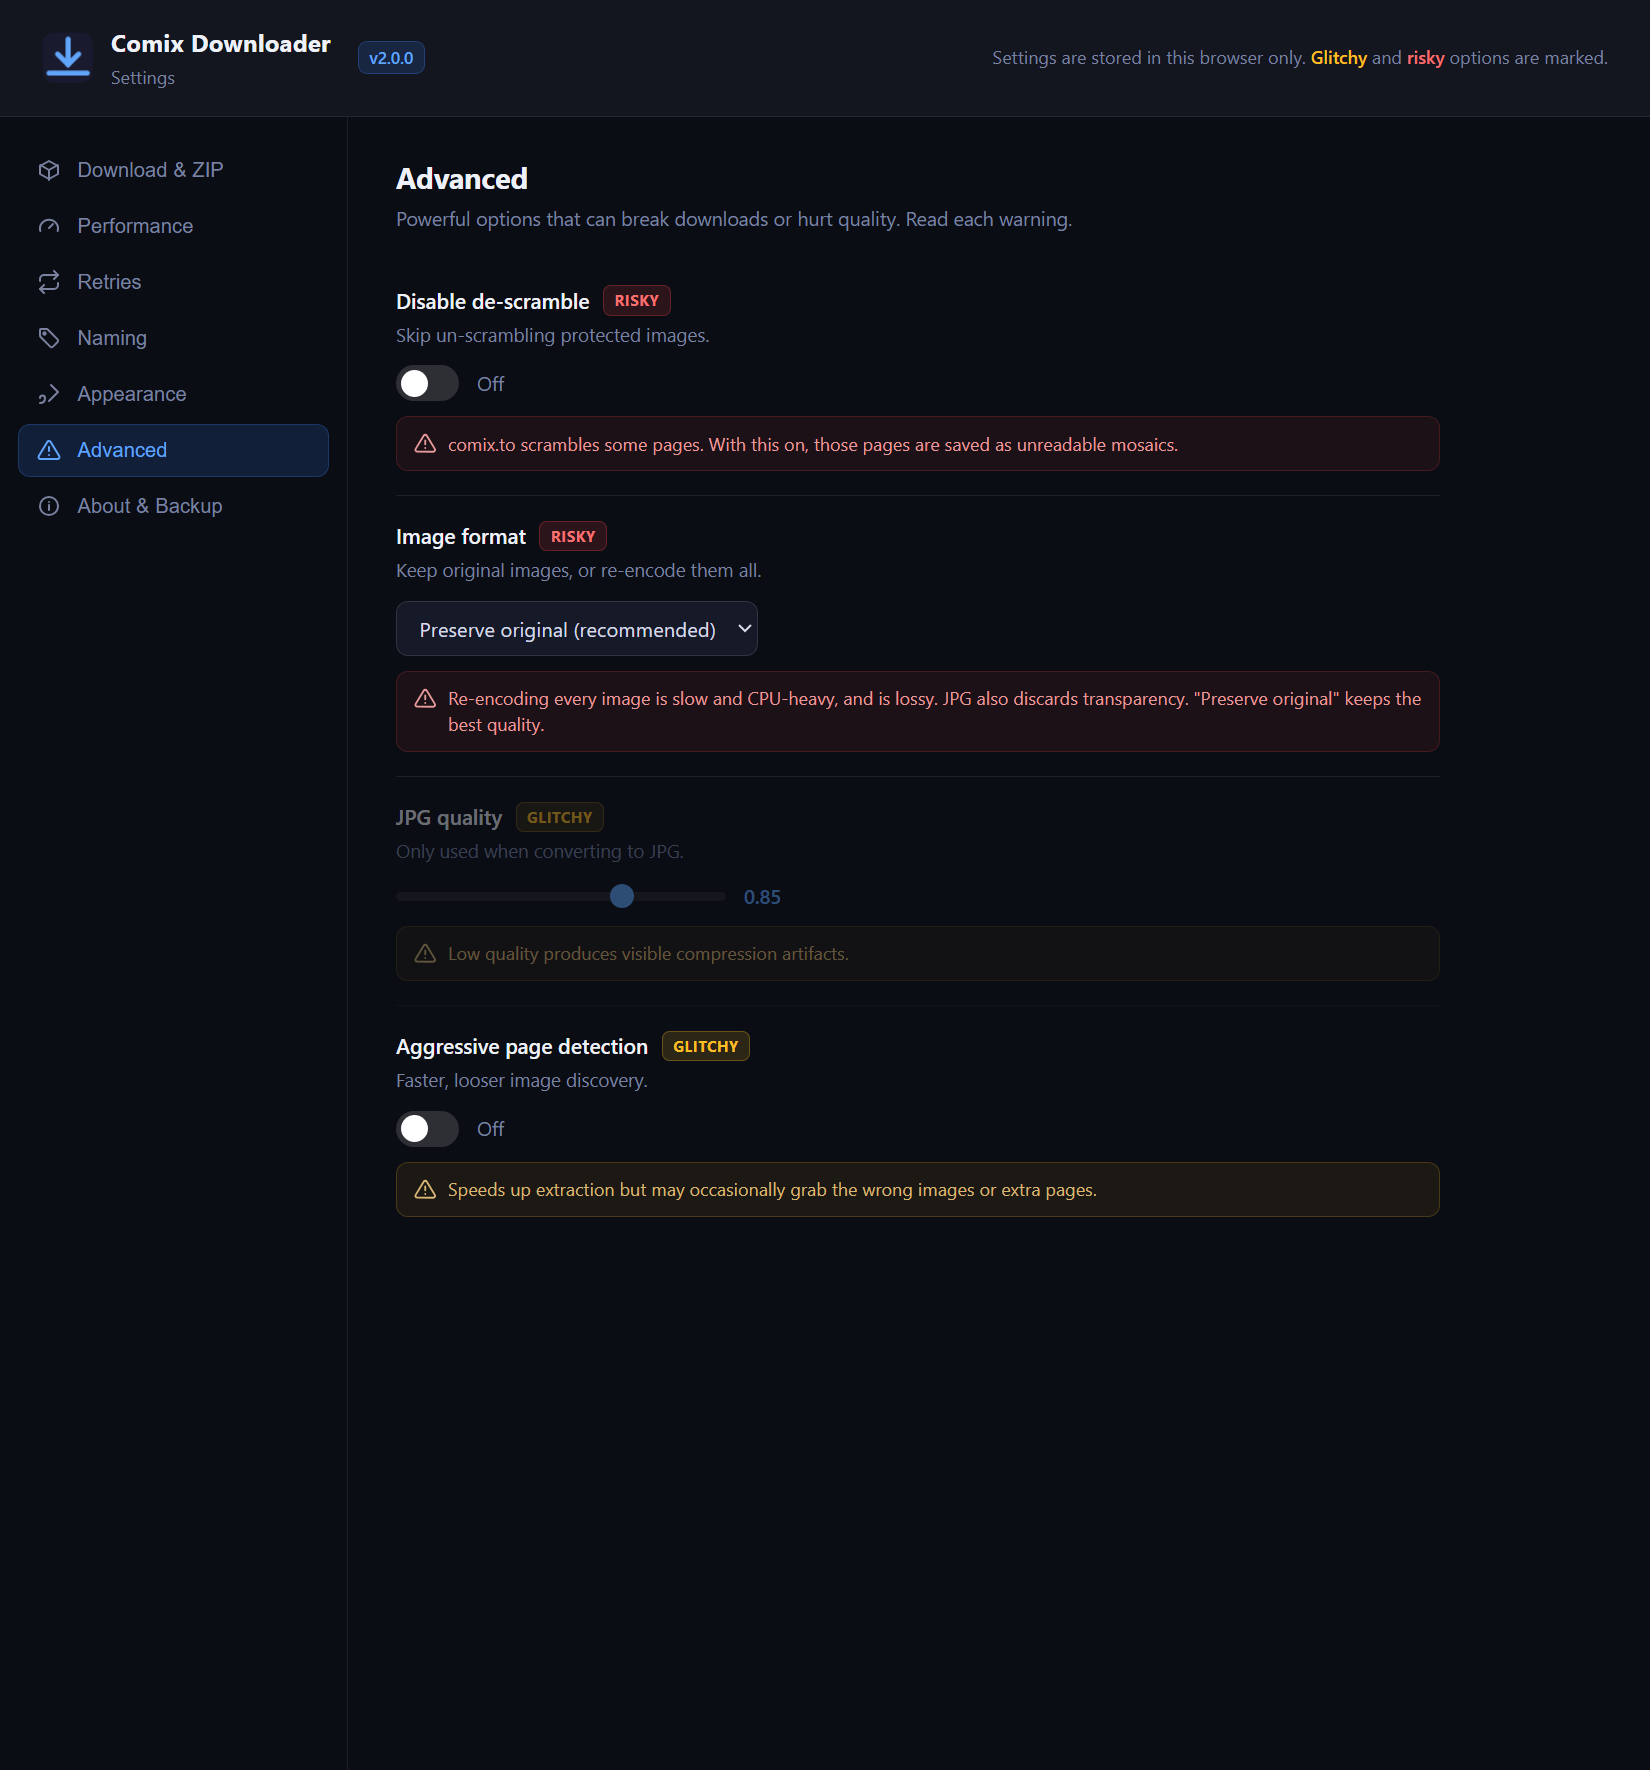
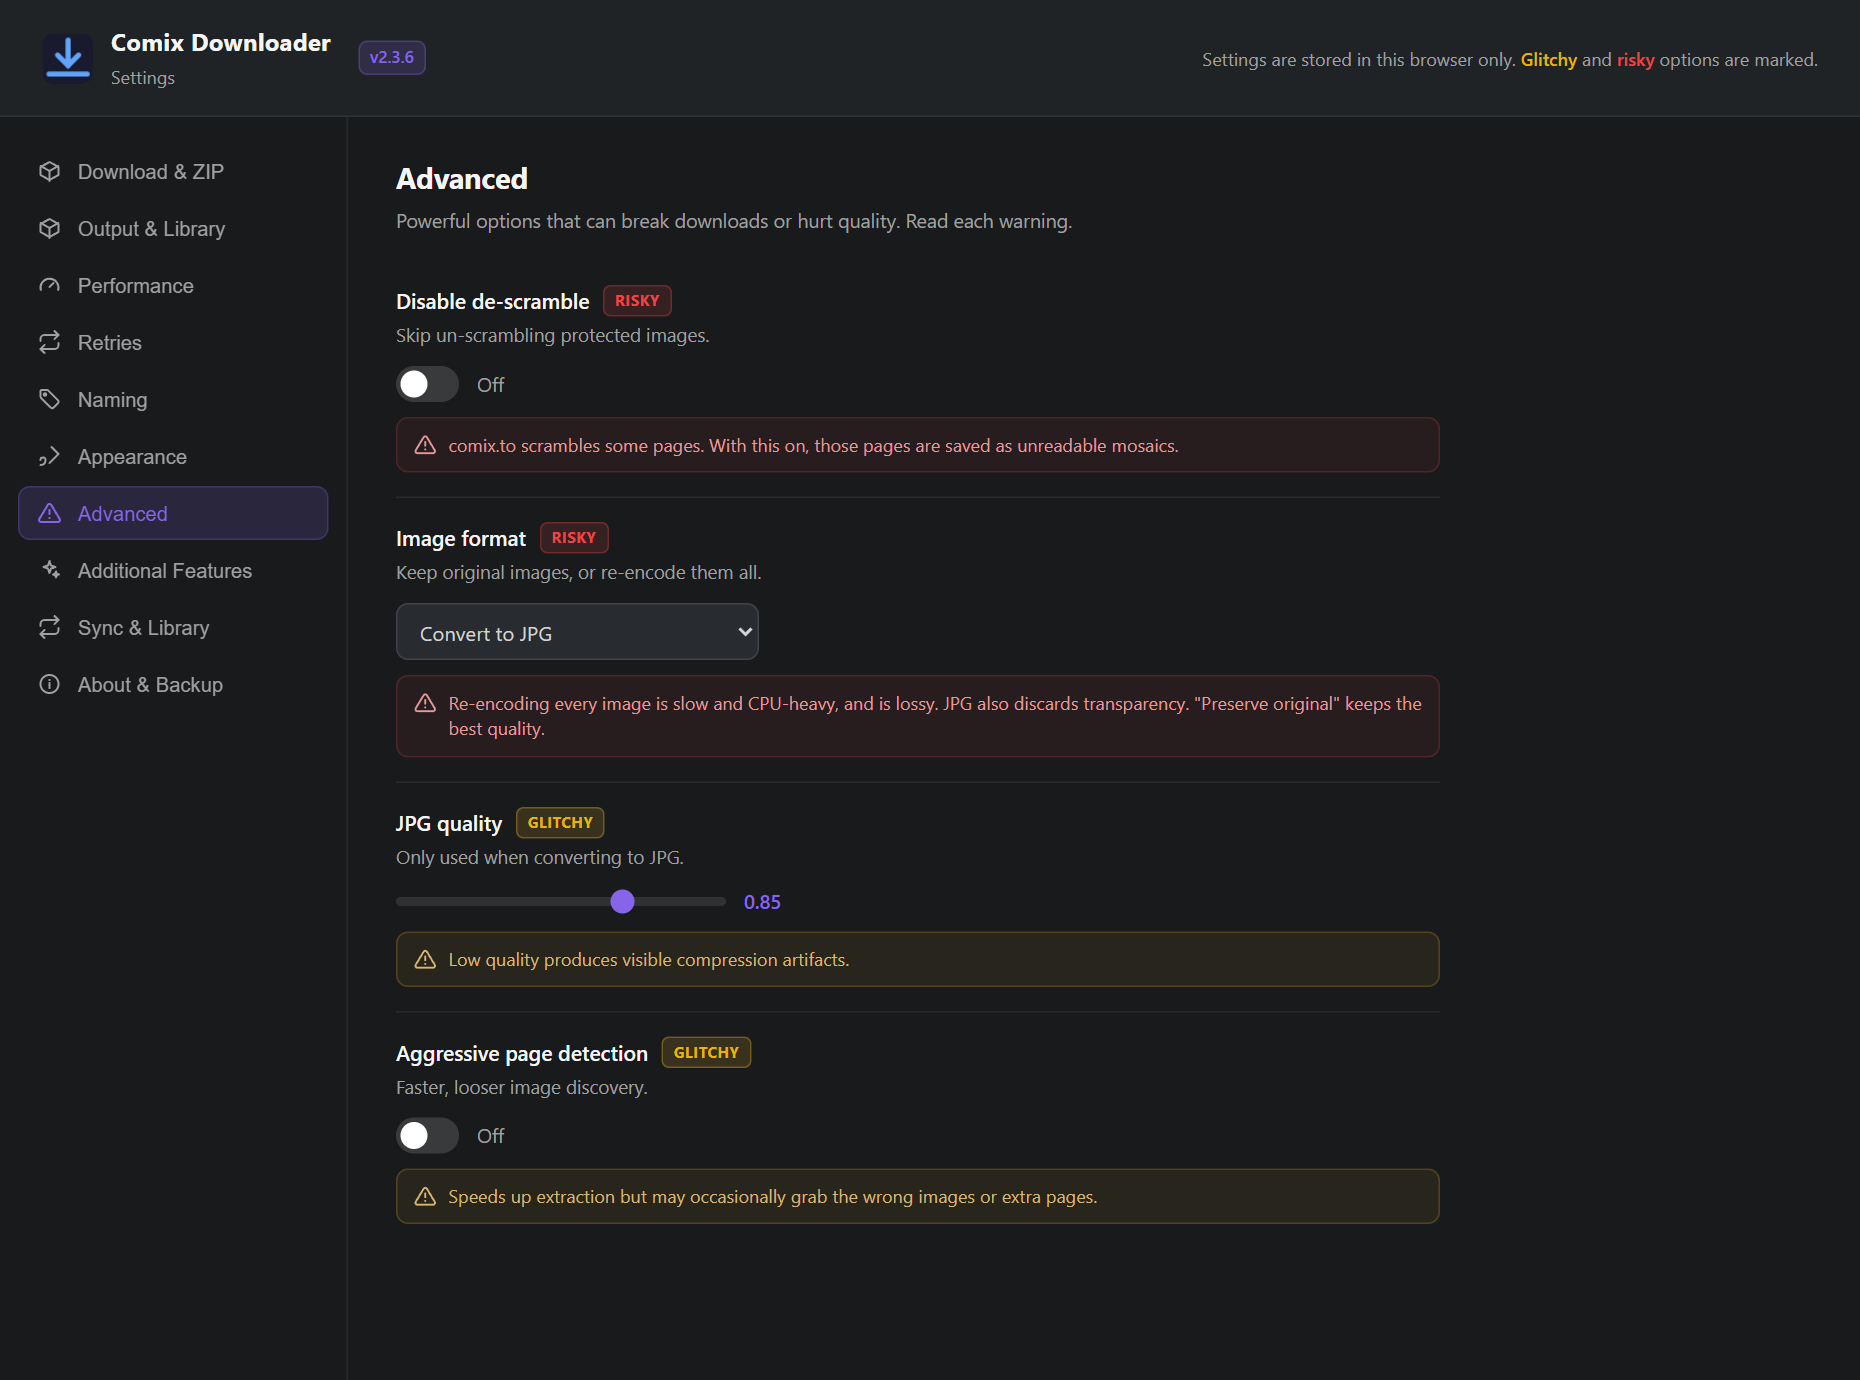
docs: settings now live in comix.to; refresh screenshots
Update the Settings + Push-to-library sections to the new flow (popup → comix.to
Settings → "Comix Downloader" section, saved instantly; standalone page still
available via the browser Options menu). Re-shoot the settings screenshots in
the current comix-dark purple theme (they were the old blue theme) — now also
showing the new default of 2 "Chapters at once".

diff --git a/docs/Documentation.html b/docs/Documentation.html
@@ -323,12 +323,12 @@
     <!-- settings -->
     <section class="doc-sec" id="settings">
       <h2>Settings</h2>
-      <p>A full settings page opens in its own browser tab. The defaults are safe and just work; a few riskier options are clearly flagged. Settings are saved in your browser.</p>
+      <p>The extension's settings live right inside <strong>comix.to's own settings page</strong>, styled to match the site — you'll find a <strong>Comix Downloader</strong> entry alongside comix's own sections. The defaults are safe and just work; a few riskier options are clearly flagged. Changes save <strong>instantly</strong>, in your browser.</p>
 
-      <p>An <em>Additional Features</em> tab adds optional, off-by-default tweaks for comix.to: hide duplicate chapters, force the chapter list into numeric order, and make the reader's next/previous jump to the true neighbouring chapter (switching source when one skips it).</p>
+      <p>An <em>Additional Features</em> section adds optional, off-by-default tweaks for comix.to: hide duplicate chapters, force the chapter list into numeric order, and make the reader's next/previous jump to the true neighbouring chapter (switching source when one skips it).</p>
 
       <h3>Opening the settings</h3>
-      <p>Click the extension icon to open the popup, then press <strong>Settings</strong> (or use <em>Options</em> in your browser's extensions menu). The popup also shows a live activity log of recent downloads.</p>
+      <p>Click the extension icon to open the popup, then press <strong>Settings</strong> — it takes you to <strong>comix.to → Settings</strong> and opens the <strong>Comix Downloader</strong> section automatically. A standalone settings page is also available from your browser's extensions menu under <em>Options</em> (handy if comix.to is unavailable). The popup also shows a live activity log of recent downloads.</p>
 
       <div class="shot" style="margin-top:16px;max-width:330px;">
         <div class="shot-chrome"><i></i><i></i><i></i><span class="addr">extension popup</span></div>
@@ -336,7 +336,7 @@
       </div>
 
       <h3>How it's organized</h3>
-      <p>Settings are grouped into labelled tabs:</p>
+      <p>Settings are grouped into labelled sections:</p>
       <ul class="tab-list">
         <li><strong>Download &amp; ZIP</strong> — multi-part (default) or single ZIP, the limit per part, and how many chapters to fetch at once.</li>
         <li><strong>Output &amp; Library</strong> — ZIP vs CBZ, ComicInfo.xml, series info, folder layout, and skipping already-downloaded chapters.</li>
@@ -358,7 +358,7 @@
         <svg aria-hidden="true" class="ico" viewBox="0 0 24 24" fill="none" stroke="currentColor" stroke-width="2" stroke-linecap="round" stroke-linejoin="round"><path d="M10.29 3.86 1.82 18a2 2 0 0 0 1.71 3h16.94a2 2 0 0 0 1.71-3L13.71 3.86a2 2 0 0 0-3.42 0z"/><line x1="12" y1="9" x2="12" y2="13"/><line x1="12" y1="17" x2="12.01" y2="17"/></svg>
         <div>
           <strong>Risky options are clearly marked.</strong>
-          <p style="margin-top:8px;">Options that can reduce reliability or quality are tagged <span class="badge risky">Risky</span> or <span class="badge glitchy">Glitchy</span>, each with an inline explanation. Saving such a change asks you to confirm first, and a <strong>Reset to defaults</strong> button (also confirmed) is always available under <em>About &amp; Backup</em>.</p>
+          <p style="margin-top:8px;">Options that can reduce reliability or quality are tagged <span class="badge risky">Risky</span> or <span class="badge glitchy">Glitchy</span>, each with an inline explanation. Changing a <strong>risky</strong> one asks you to confirm first, and a <strong>Reset to defaults</strong> action (also confirmed) is always available under <em>Backup &amp; reset</em>.</p>
         </div>
       </div>
 
@@ -431,7 +431,7 @@
       </div>
 
       <ol class="steps">
-        <li>Open <strong>Settings → Sync &amp; Library</strong> and scroll to <strong>Push to library</strong>.</li>
+        <li>Open the extension's settings (popup → <strong>Settings</strong> → <strong>Comix Downloader</strong>) and scroll to <strong>Push to library</strong>.</li>
         <li>Tick <strong>Enable push after download</strong>.</li>
         <li><strong>Endpoint URL</strong> — the WebDAV/HTTP base folder your library watches, e.g.&nbsp;<code>https://nas.homelab.example/webdav/comics</code>. Each new series becomes a sub-folder under it.</li>
         <li><strong>Method</strong> — leave on <strong>PUT (WebDAV / most servers)</strong>; only switch to <strong>POST</strong> if your server specifically requires it.</li>
